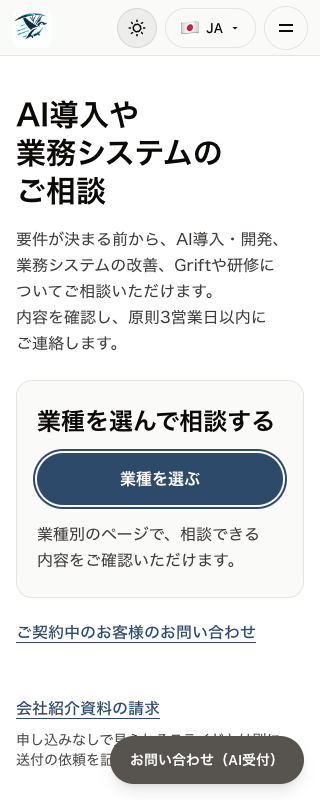
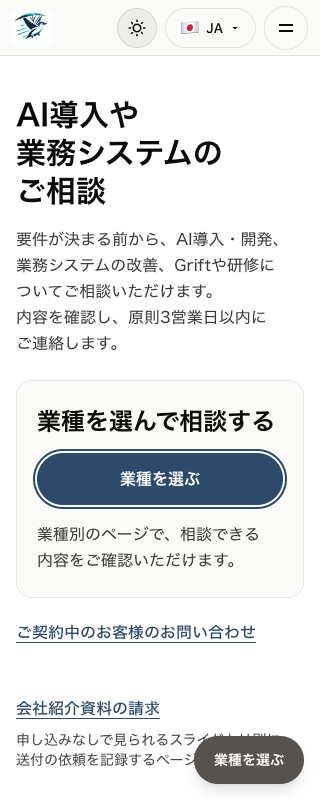
fix(web): 固定の相談リンクに行き先を示す
業種一覧を開く固定リンクには、業種を選ぶ操作を表示する。目的付きの受付で使うAI受付の文言は維持する。

Refs: #633
Agent-Lane: codex

Changed region(s): [[0.3438, 0.9062, 0.875, 1.0]]

diff --git a/e2e/contact-cloudia.spec.ts b/e2e/contact-cloudia.spec.ts
@@ -57,19 +57,34 @@ test.describe('Cloudia contact routing', () => {
     await expect(page).toHaveTitle('Existing customer support');
   });
 
-  for (const path of ['/about/', '/en/about/?intent=unknown&source=grift-lp-hero']) {
-    test(`sends the general launcher to the industry list from ${path}`, async ({ page }) => {
-      await page.goto(path);
-      const launcher = page.locator('#cloudia-launcher');
-      const selection = launcher.getByRole('link');
+  for (const [locale, label] of [
+    ['ja', '業種を選ぶ'],
+    ['en', 'Choose your industry'],
+    ['zh', '选择行业'],
+    ['ko', '업종 선택'],
+    ['es', 'Elegir sector'],
+  ]) {
+    test(`opens the industry list from the general launcher and restores it on back (${locale})`, async ({ page }) => {
+      const prefix = locale === 'ja' ? '' : `/${locale}`;
+      const about = `${prefix}/about/?intent=unknown&source=grift-lp-hero`;
+      await page.goto(about);
+      const selection = page.locator('#cloudia-launcher').getByRole('link', { name: label, exact: true });
       await expect(selection).toBeVisible();
       await selection.focus();
       await page.keyboard.press('Enter');
-      const locale = path.startsWith('/en/') ? '/en/' : '/';
-      await expect(page).toHaveURL(new RegExp(`${locale}\\?source=corsweb-launcher#home-industry-entry$`));
+      await expect(page).toHaveURL(`${prefix}/?source=corsweb-launcher#home-industry-entry`);
       await expect(page.locator('[data-home-industry-entry] a')).toHaveCount(5);
       await page.keyboard.press('Tab');
-      await expect(page.locator('[data-industry-entry="medical"]')).toBeFocused();
+      const medical = page.locator('[data-industry-entry="medical"]');
+      await expect(medical).toBeFocused();
+      await page.keyboard.press('Enter');
+      await expect(page.locator('#cloudia-launcher-open')).toBeVisible();
+      await expect(selection).toHaveCount(0);
+      await page.goBack();
+      await expect(selection).toBeVisible();
+      await page.goBack();
+      await expect(page).toHaveURL(about);
+      await expect(selection).toBeVisible();
     });
   }
 
@@ -276,7 +291,7 @@ test.describe('Cloudia contact routing', () => {
       await page.setViewportSize({ width, height: 700 });
       await page.goto('/contact/');
 
-      const primary = page.getByRole('link', { name: '業種を選ぶ', exact: true });
+      const primary = page.locator('main').getByRole('link', { name: '業種を選ぶ', exact: true });
       await expect(primary).toBeInViewport({ ratio: 1 });
       const materials = page.getByRole('link', { name: '会社紹介資料の請求', exact: true });
       const launcher = page.locator('#cloudia-launcher-industry');

diff --git a/src/components/contact/cloudia-launcher-copy.ts b/src/components/contact/cloudia-launcher-copy.ts
@@ -7,6 +7,7 @@ import type { Locale } from '../../utils/i18n';
 // 以前は ja/非ja の 2 分岐で、zh・ko・es のページでは英語のボタンが出ていた。
 // satisfies により、6 言語目を足したときに翻訳漏れが型エラーになる。
 export type LauncherCopy = {
+  industryLink: string;
   label: string;
   title: string;
   close: string;
@@ -16,6 +17,7 @@ export type LauncherCopy = {
 
 export const LAUNCHER_COPY = {
   ja: {
+    industryLink: '業種を選ぶ',
     label: 'お問い合わせ（AI受付）',
     title: 'お問い合わせ（AI受付）',
     close: '閉じる',
@@ -23,24 +25,28 @@ export const LAUNCHER_COPY = {
     // Cloudia が開けないときの文は ./chat/cloudiaUnavailableCopy.ts に置く（代わりのページと contact-edge と共通）。
   },
   en: {
+    industryLink: 'Choose your industry',
     label: 'Contact us (AI reception)',
     title: 'Contact us (AI reception)',
     close: 'Close',
     closeLauncher: 'Close contact',
   },
   zh: {
+    industryLink: '选择行业',
     label: '联系我们（AI 接待）',
     title: '联系我们（AI 接待）',
     close: '关闭',
     closeLauncher: '关闭联系窗口',
   },
   ko: {
+    industryLink: '업종 선택',
     label: '문의하기 (AI 접수)',
     title: '문의하기 (AI 접수)',
     close: '닫기',
     closeLauncher: '문의 닫기',
   },
   es: {
+    industryLink: 'Elegir sector',
     label: 'Contacto (recepción con IA)',
     title: 'Contacto (recepción con IA)',
     close: 'Cerrar',

diff --git a/docs/adr/ADR-0013-contact-consolidation-cloudia.md b/docs/adr/ADR-0013-contact-consolidation-cloudia.md
@@ -11,21 +11,21 @@
 
 ### 一極集中の定義
 - Cor.inc に関わる**すべての問い合わせ導線**（corsweb 主 CTA・業種別 LP・Grift LP・ブログ CTA・将来の 050 AI 受付）の終着点を、次の**ペア**に固定する:
-  1. **UI**: Cloudia（Cor-Incorporated/cloudia、LINE 風チャット + 8 表情）— corsweb `/contact/` に同一オリジンで埋め込み（#254）
+  1. **UI**: Cloudia（Cor-Incorporated/cloudia、LINE 風チャット + 8 表情）— corsweb の `/contact/chat/` を単独で開くか、業種・目的付きの受付で同一オリジンの埋込みとして開く（#254）
   2. **API**: `workers/contact-chat`（本リポ配下の Cloudflare Worker、`/api/contact/*`）— 問い合わせ処理の正本（#250）
 - 「一極集中」の実体は **Worker への集約**であり、UI 実装が何であれ問い合わせデータは contact-chat を必ず経由する。
 
 ### ~~fallback フォームの維持（単一障害点の回避）~~ → 撤回（2026-09-13 改訂）
 - ~~SSGFORM ベースの従来フォームは **恒久的に fallback として維持**する（cloudia #19）。~~ → **撤回（2026-09-13）**。問い合わせ導線を Cloudia に一本化し、単一障害点となるリスクは認識したうえで受容した。検知手段・撤回条件は （ADR-0005「2026-09-13 改訂: 問い合わせ導線の Cloudia 一本化」を参照）
 - ~~発動条件: (a) Cloudia の障害・応答不能時、(b) JavaScript 無効環境、(c) チャット UI が利用困難なユーザー（a11y）。~~ → **撤回（2026-09-13）**: fallback を持たないため発動しない。(a)〜(c) の利用者は `/contact` 上に問い合わせ手段が無い状態となり、これは受容したリスクとして ADR-0005 改訂節に記録している（(b) は計測手段が無いため撤回条件の根拠にしていない）。
-- ~~fallback からの送信も intent / source を可能な範囲で引き継ぐ。~~ → **撤回（2026-09-13）**: fallback フォーム自体を持たないため対象外。なお Cloudia ランチャーのフォールバック**案内リンク**（`/contact` 以外のページで出る）は intent / source / locale を引き継ぐ（`e2e/contact-cloudia.spec.ts` で固定）。
+- ~~fallback からの送信も intent / source を可能な範囲で引き継ぐ。~~ → **撤回（2026-09-13）**: fallback フォーム自体を持たないため対象外。なお Cloudia ランチャーのフォールバック**案内リンク**（業種・目的付きの埋込みで出る）は intent / source / locale を引き継ぐ（`e2e/contact-cloudia.spec.ts` で固定）。
 
 ### 公開順序との整合
 - Cor.サイトの共通ヘッダーとフッターの相談は、表示中の言語のトップにある業種一覧を開く。業種の提案ページから Cloudia へ進む。
 - Epic #243 の公開順序「導線の真実性 → 有料入口 → 信頼証拠 → Cloudia → 050 AI 受付 → 背景演出」を維持する。
-- `/contact/` は Cloudia への主導線（`/contact/chat/`、`embed=1`、`source`、`locale`、任意の `intent`）を表示する。~~従来の SSGFORM と日程調整は `details#contact-form-fallback` 内に残し、Cloudia 障害・JS 無効・a11y の fallback とする。~~ → **撤回（2026-09-13）**: `details#contact-form-fallback` の中身は所在地と（`PUBLIC_GCAL_ID` 設定時のみ）閲覧専用カレンダーで、**連絡手段としての fallback ではない**。日程調整は送信できないため問い合わせ手段として案内しない （ADR-0005「2026-09-13 改訂: 問い合わせ導線の Cloudia 一本化」を参照）。
-- `/contact/` の一般相談は同じ言語の業種一覧を開く。既存顧客の問い合わせ、目的が指定された相談、資料請求、所在地・カレンダーに必要な入口を提供する。
-- 右下の共通相談リンクは表示中の言語の業種一覧を開く。業種ページと既知の相談目的付きリンクからの訪問では、埋込み Cloudia と既存の復旧案内を使う。スマートフォンでは safe-area を考慮したボトムシートとして開閉する。
+- `/contact/` の一般相談を選ぶと、同じ言語の業種一覧を開く。既存顧客の問い合わせは従来の Cloudia へ進み、既知の目的が指定されたリンクは目的・流入元・言語を Cloudia に渡す。資料請求の案内もここに置く。
+- `details#contact-form-fallback` には所在地と、`PUBLIC_GCAL_ID` を設定した場合に閲覧専用カレンダーを表示する。連絡先の入力や予約の送信は受け付けない（ADR-0005「2026-09-13 改訂: 問い合わせ導線の Cloudia 一本化」を参照）。
+- 一般ページの右下には、表示中の言語で業種を選ぶリンクを表示する。業種ページと既知の相談目的付きリンクでは、右下のボタンから Cloudia を埋込みで開く。埋込みを開けないときは単独の受付へ進める。スマートフォンの埋込みは safe-area を考慮したボトムシートとして開閉する。
 
 ## 影響
 - corsweb: #250（contact-chat 構造化 intent フロー）、#254（Cloudia 埋め込み）、#252（計測）
